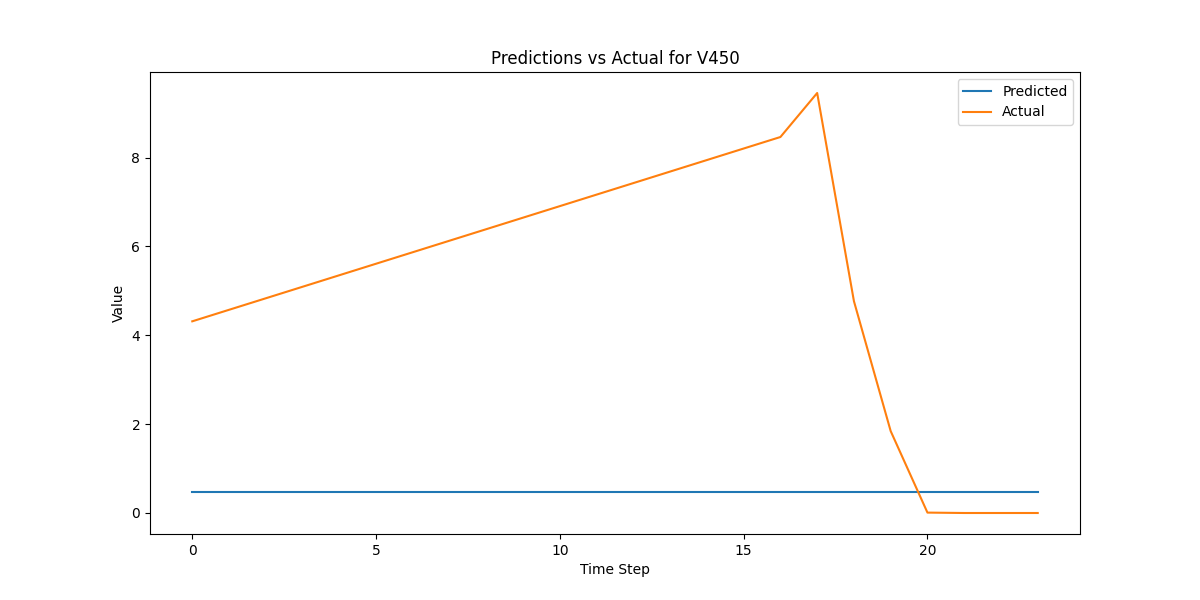
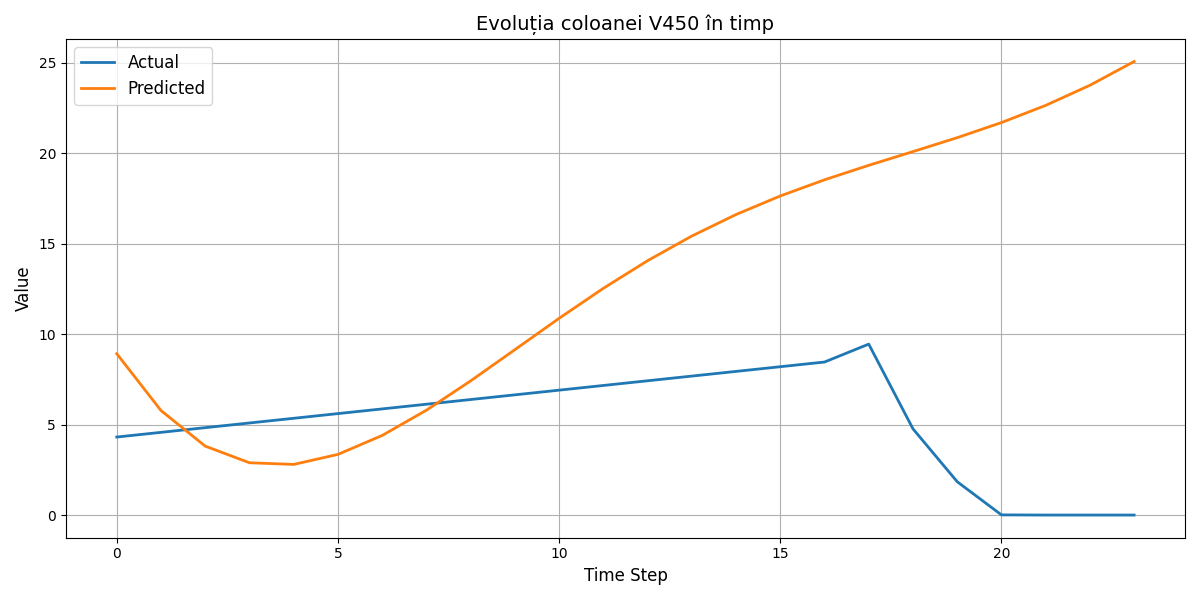
seq2seq iar

diff --git a/SensorML/seq2seq.py b/SensorML/seq2seq.py
@@ -13,8 +13,8 @@ from read_csv import load_and_clean_data
 def create_sequences(data, input_sequence_length, output_sequence_length):
     X, y = [], []
     for i in range(len(data) - input_sequence_length - output_sequence_length + 1):
-        X.append(data[i:(i + input_sequence_length), 0])  # Modificare aici
-        y.append(data[(i + input_sequence_length):(i + input_sequence_length + output_sequence_length)])
+        X.append(data[i:(i + input_sequence_length), 0].reshape(input_sequence_length, 1))
+        y.append(data[(i + input_sequence_length):(i + input_sequence_length + output_sequence_length), 0].reshape(output_sequence_length, 1))
     return np.array(X), np.array(y)
 
 def function_Seq2Seq(df, column):
@@ -33,8 +33,8 @@ def function_Seq2Seq(df, column):
     X, y = create_sequences(data_normalized, input_sequence_length, output_sequence_length)
 
     # Dimensiunile input și output
-    input_dim = 24  # Modificare aici
-    output_dim = y.shape[2]
+    input_dim = 1  # Există o singură caracteristică per pas de timp
+    output_dim = 1  # Există o singură caracteristică de ieșire pentru fiecare pas de timp în secvența de ieșire
 
     # Encoder
     encoder_inputs = tf.keras.layers.Input(shape=(input_sequence_length, input_dim))
@@ -43,12 +43,11 @@ def function_Seq2Seq(df, column):
     encoder_states = [state_h, state_c]
 
     # Decoder
-    decoder_inputs = tf.keras.layers.Input(shape=(output_sequence_length, output_dim))
+    decoder_inputs = tf.keras.layers.Input(shape=(output_sequence_length, input_dim))  # Ajustează această linie
     decoder_lstm = tf.keras.layers.LSTM(100, return_sequences=True, return_state=True)
     decoder_outputs, _, _ = decoder_lstm(decoder_inputs, initial_state=encoder_states)
     decoder_dense = tf.keras.layers.Dense(output_dim, activation='linear')
     decoder_outputs = decoder_dense(decoder_outputs)
-
     # Modelul Seq2Seq
     model = tf.keras.models.Model([encoder_inputs, decoder_inputs], decoder_outputs)
 
@@ -59,7 +58,7 @@ def function_Seq2Seq(df, column):
     model.compile(optimizer='adam', loss='mean_squared_error')
 
     # Antrenarea modelului
-    history = model.fit([X, y], y, epochs=5, batch_size=32, validation_split=0.2)
+    history = model.fit([X, np.zeros((X.shape[0], output_sequence_length, input_dim))], y, epochs=5, batch_size=32, validation_split=0.2)
 
     # Generarea predicțiilor
     decoder_input = np.zeros((X.shape[0], output_sequence_length, output_dim))
@@ -81,12 +80,14 @@ def function_Seq2Seq(df, column):
 
         # Crearea graficului
         plt.figure(figsize=(12, 6))
-        plt.plot(time_steps, true_sequence, label='Actual')
-        plt.plot(time_steps, predicted_sequence, label='Predicted')
-        plt.title(f'Evoluția coloanei {column} în timp')
-        plt.xlabel('Time Step')
-        plt.ylabel('Value')
-        plt.legend()
+        plt.plot(time_steps, true_sequence, label='Actual', linewidth=2)  # Linii mai groase
+        plt.plot(time_steps, predicted_sequence, label='Predicted', linewidth=2)
+        plt.title(f'Evoluția coloanei {column} în timp', fontsize=14)  # Titlu lizibil
+        plt.xlabel('Time Step', fontsize=12)
+        plt.ylabel('Value', fontsize=12)
+        plt.legend(fontsize=12)
+        plt.grid(True)  # Adăugarea unei grile
+        plt.tight_layout()  # Asigură-te că totul se încadrează bine
 
         # Salvarea imaginii
         image_path = f'static/images/{column}_Seq2Seq.png'
